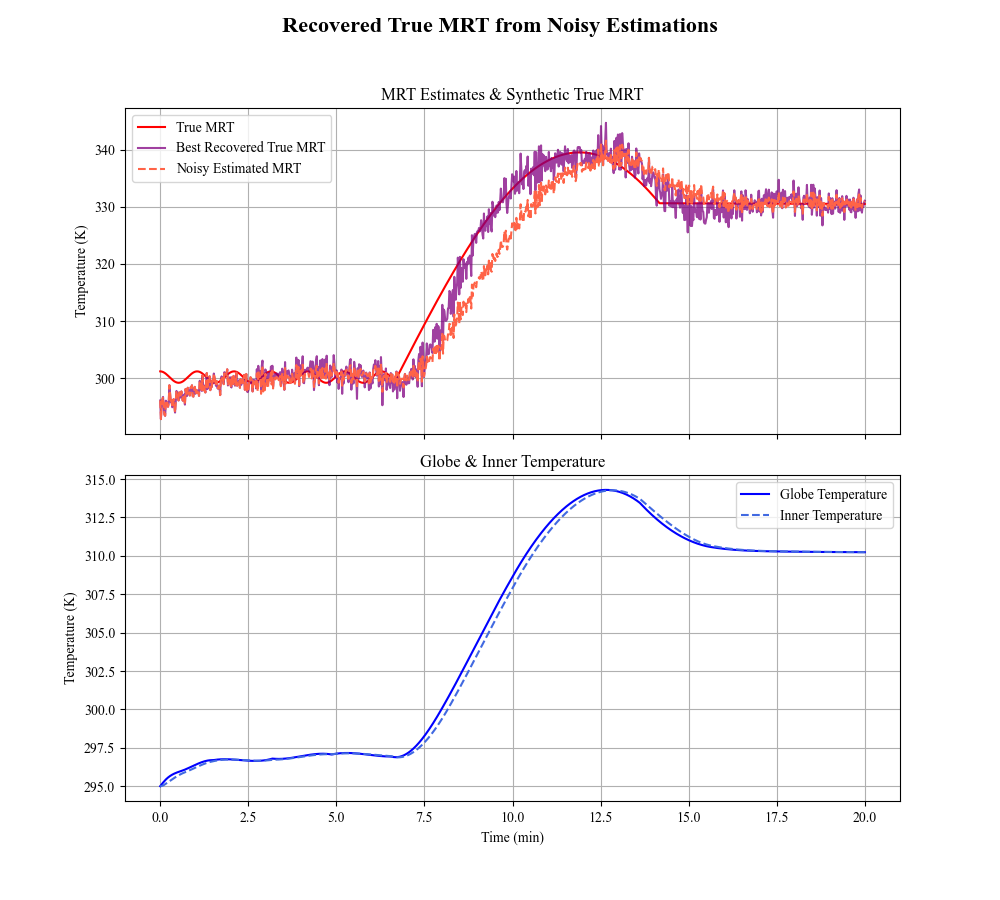
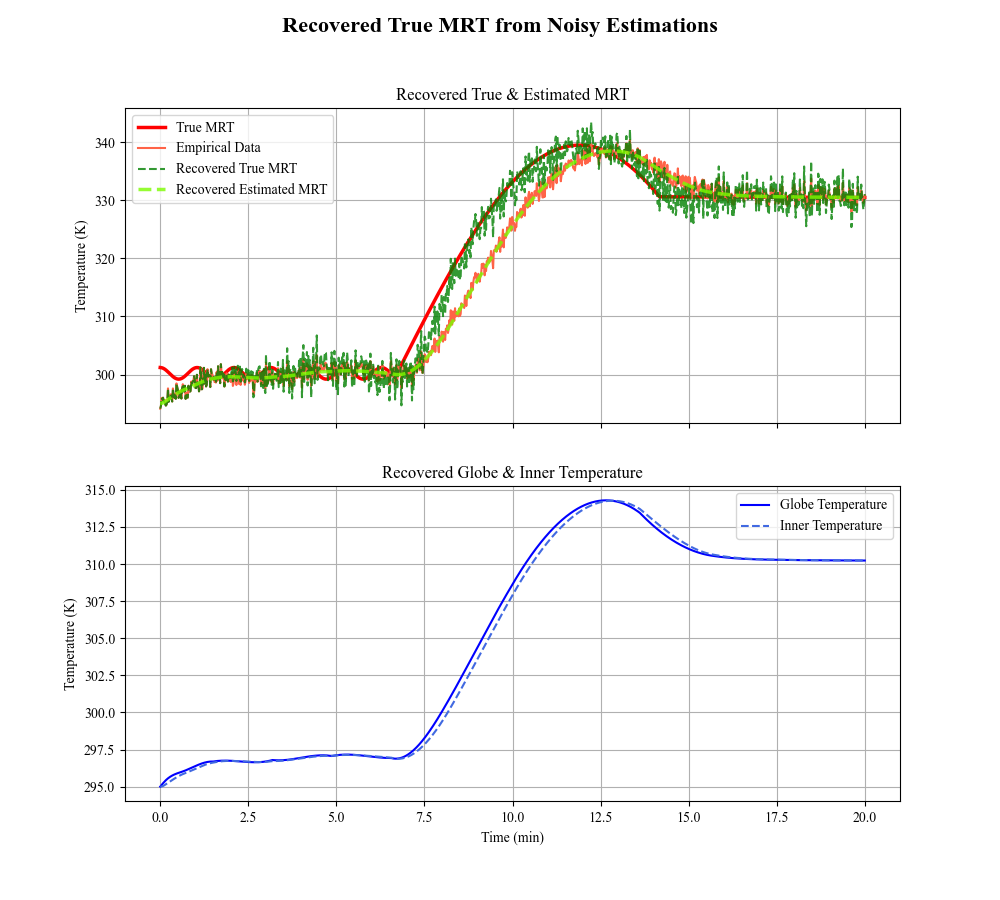
Updated plot for first recovery algorithm

diff --git a/Code/mobile corrections/moving_average_recovering_mrt.py b/Code/mobile corrections/moving_average_recovering_mrt.py
@@ -5,12 +5,14 @@ import numpy as np
 from numpy.linalg import inv
 import matplotlib.pyplot as plt
 from scipy.integrate import solve_ivp, quad
+from scipy.interpolate import interp1d
 from mrt_tools import dTdt, grey_body_MRT_estimate, moving_average_matrix
 import matplotlib as mpl
 
 mpl.rcParams['font.family'] = 'Times New Roman'
 
-minutes = 20 
+minutes = 20
+t_eval = np.linspace(0, minutes*60, 1000)
 
 
 def V_a(t):
@@ -29,7 +31,7 @@ rho = 8960  # Density of the globe (copper) [kg/m3]
 c = 384 # Specific heat capacity of the globe (copper) [J/kg*K]
 D = 150 * 10 ** -3  # Diameter of the shell
 V = quad(lambda r: 4 * np.pi * r ** 2, (D - thickness)/2, D/2)[0] # Volume of the globe [m3]
-A = 4 * np.pi * (D/2) ** 2 # Surface area of the globe [m2]
+A_shell = 4 * np.pi * (D/2) ** 2 # Surface area of the globe [m2]
 h = lambda t: (6.7 * V_a(t) ** 0.6) / (D ** 0.4) # Forced convective heat transfer coefficient (McAdams) [J/s*m^2*K]
 constant = c * rho * V # [J/K]
 
@@ -57,22 +59,23 @@ def MRT(t):
         return t_3(t)
 
 
-sol = solve_ivp(dTdt, [0, minutes*60], [295, 295], args=(MRT, h, T_a, epsilon, constant, A, A_i, h_i, constant_i), method="Radau", t_eval=np.linspace(0, minutes*60, 1000)) # Implicite method to acount for stiffness
+sol = solve_ivp(dTdt, [0, minutes*60], [295, 295], args=(MRT, h, T_a, epsilon, constant, A_shell, A_i, h_i, constant_i), method="Radau", t_eval=t_eval) # Implicite method to acount for stiffness
+
+mode = "linear decay"
+smoothing_window = 100
+smoothing_matrix = moving_average_matrix(sol.t, window_size=smoothing_window, mode=mode) # If estimate isn't smooth, this method will never work
 
 inner_temp = sol.y[0]
 shell_temp = sol.y[1]
 
 true_mrt = np.array([MRT(t) for t in sol.t])
-estimated_mrt = np.array([grey_body_MRT_estimate(T, h(t), T_a, epsilon) for T, t in zip(inner_temp, sol.t)]) + np.random.normal(0, 1, true_mrt.shape)
+estimated_mrt = np.array([grey_body_MRT_estimate(T, h(t), T_a, epsilon) for T, t in zip(inner_temp, sol.t)]) + np.random.normal(0, 1, sol.t.shape)
 
-mode = "linear decay"
-
-smoothing_matrix = moving_average_matrix(estimated_mrt, window_size=137, mode=mode) # If estimate isn't smooth, this method will never work
 smooth_estimated_mrt = smoothing_matrix@estimated_mrt
     
 old_error = float('inf')
 
-for window_size_guess in range(150,300):
+for window_size_guess in range(195, 210):
     A = moving_average_matrix(true_mrt, window_size_guess, mode=mode, base=1.0185)
     A_inv = inv(A)
 
@@ -86,25 +89,32 @@ for window_size_guess in range(150,300):
         best_recovered_true_mrt = recovered_true_mrt
         best_A = A
 
+best_recovered_true_mrt_func = interp1d(t_eval, best_recovered_true_mrt, kind='linear', fill_value="extrapolate")
+recovered_sol = solve_ivp(dTdt, [0, minutes*60], [295, 295], args=(best_recovered_true_mrt_func, h, T_a, epsilon, constant, A_shell, A_i, h_i, constant_i), method="Radau", t_eval=t_eval) # Implicite method to acount for stiffness
+
+recovered_inner_temp = sol.y[0]
+recovered_shell_temp = sol.y[1]
+
+recovered_estimated_mrt = np.array([grey_body_MRT_estimate(T, h(t), T_a, epsilon) for T, t in zip(inner_temp, sol.t)])
+
+print(f"Estimation smoothing window: {smoothing_window}")
 print(f"Best window size: {best_window_size} with error: {old_error}")
 
 fig, axis  = plt.subplots(2, 1, figsize=(10,9), sharex=True)
 fig.suptitle("Recovered True MRT from Noisy Estimations", fontsize=16, fontweight="bold")
 
-axis[0].plot(sol.t / 60, true_mrt, label="True MRT", color="red")
-# axis[0].plot(sol.t / 60, best_moving_average_over_true_mrt, label="Moving Average over True MRT", color="green", alpha=0.75)
-axis[0].plot(sol.t / 60, best_recovered_true_mrt, label="Best Recovered True MRT", color="purple", alpha=0.75)
-axis[0].plot(sol.t / 60, estimated_mrt, label="Noisy Estimated MRT", color="tomato", linestyle="--")
-# axis[0].plot(sol.t / 60, smooth_estimated_mrt, label="Smooth Estimated MRT", linestyle="--") 
-axis[0].set_title("MRT Estimates & Synthetic True MRT")
+axis[0].plot(sol.t / 60, true_mrt, label="True MRT", color="red", lw=2.5)
+axis[0].plot(sol.t / 60, estimated_mrt, label="Empirical Data", color="tomato")
+axis[0].plot(sol.t / 60, best_recovered_true_mrt, label="Recovered True MRT", color="green", alpha=0.80, linestyle="--")
+axis[0].plot(sol.t / 60, recovered_estimated_mrt, label="Recovered Estimated MRT", color="lawngreen", alpha=0.80, linestyle="--", lw=2.5)
+axis[0].set_title("Recovered True & Estimated MRT")
 axis[0].set_ylabel("Temperature (K)")
 axis[0].legend()
 axis[0].grid()
 
-
 axis[1].plot(sol.t / 60, shell_temp, label="Globe Temperature", color="blue")
 axis[1].plot(sol.t / 60, inner_temp, label="Inner Temperature", color="royalblue", linestyle="--")
-axis[1].set_title("Globe & Inner Temperature")
+axis[1].set_title("Recovered Globe & Inner Temperature")
 axis[1].set_xlabel("Time (min)")
 axis[1].set_ylabel("Temperature (K)")
 axis[1].legend()
